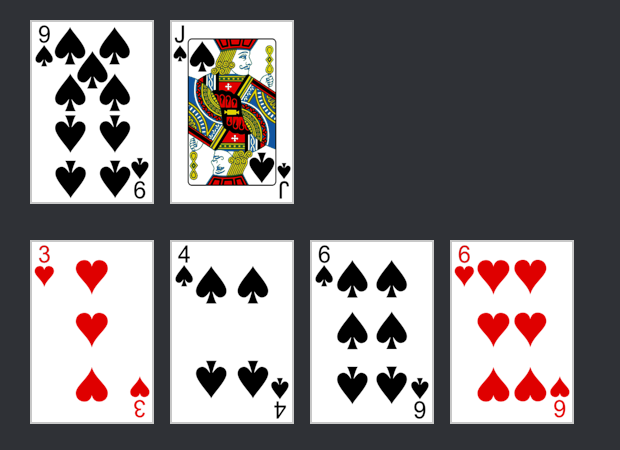
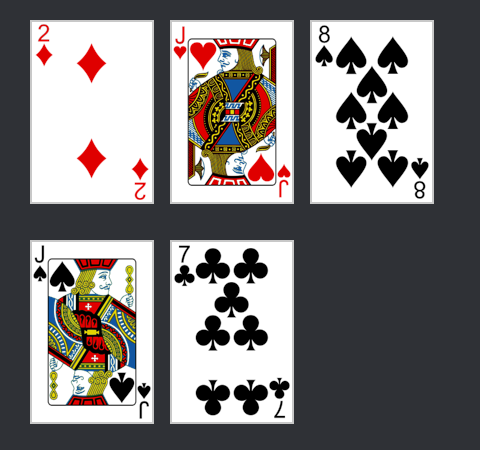
fixed music

diff --git a/main.py b/main.py
@@ -1,32 +1,32 @@
+
 import asyncio
 import itertools
 import json
 import logging
 import os
-import threading  # ✅ NEW
+import threading
 
 import discord
 from discord.ext import commands, tasks
 from dotenv import load_dotenv
 
 from cogs.music import MusicControls
-from web import run_web  # ✅ NEW
+from web import run_web
 
 logging.getLogger("discord").setLevel(logging.CRITICAL)
-logging.getLogger("discord.client").setLevel(logging.CRITICAL)
 logging.basicConfig(level=logging.INFO)
 
 load_dotenv()
 TOKEN = os.getenv("DISCORD_TOKEN")
 
 if not TOKEN:
-   raise ValueError("DISCORD_TOKEN not found")
+    raise ValueError("DISCORD_TOKEN not found")
 
 
-def ensure_file(file_path: str) -> None:
-   if not os.path.exists(file_path):
-       with open(file_path, "w", encoding="utf-8") as f:
-           json.dump({}, f)
+def ensure_file(file_path: str):
+    if not os.path.exists(file_path):
+        with open(file_path, "w", encoding="utf-8") as f:
+            json.dump({}, f)
 
 
 ensure_file("data.json")
@@ -41,78 +41,66 @@ bot = commands.Bot(command_prefix="!", intents=intents)
 bot.remove_command("help")
 
 statuses = itertools.cycle([
-   discord.Activity(type=discord.ActivityType.listening, name="!help | !blackjack"),
+    discord.Activity(type=discord.ActivityType.listening, name="!help | !blackjack"),
 ])
 
 
 @tasks.loop(seconds=10)
 async def change_status():
-   await bot.change_presence(activity=next(statuses))
+    await bot.change_presence(activity=next(statuses))
 
 
 async def load_cogs():
-   if not os.path.isdir("./cogs"):
-       print("No cogs folder found.")
-       return
-
-   for filename in os.listdir("./cogs"):
-       if not filename.endswith(".py") or filename.startswith("_"):
-           continue
-
-       extension = f"cogs.{filename[:-3]}"
-       try:
-           await bot.load_extension(extension)
-           print(f"Loaded {extension}")
-       except Exception as e:
-           print(f"Failed to load {extension}: {e}")
+    for filename in os.listdir("./cogs"):
+        if filename.endswith(".py") and not filename.startswith("_"):
+            extension = f"cogs.{filename[:-3]}"
+            try:
+                await bot.load_extension(extension)
+                print(f"✅ Loaded {extension}")
+            except Exception as e:
+                print(f"❌ Failed {extension}: {e}")
 
 
+# ✅ SINGLE on_ready (MERGED)
 @bot.event
 async def on_ready():
-   print(f"Logged in as {bot.user}")
+    print(f"✅ Logged in as {bot.user}")
 
-   print("MUSIC COMMANDS:")
-   for command in bot.commands:
-       if command.callback.__module__ == "cogs.music":
-           print(f"{command.name} -> {command.callback.__module__}")
+    # Add persistent views (IMPORTANT for buttons)
+    bot.add_view(MusicControls(bot.get_cog("Music")))
 
-   # ✅ START DASHBOARD HERE
-   if not hasattr(bot, "web_started"):
-       threading.Thread(target=run_web, args=(bot,), daemon=True).start()
-       bot.web_started = True
-       print("🌐 Dashboard running on http://localhost:5000")
+    # Start dashboard
+    if not hasattr(bot, "web_started"):
+        threading.Thread(target=run_web, args=(bot,), daemon=True).start()
+        bot.web_started = True
+        print("🌐 Dashboard running")
 
-   if not change_status.is_running():
-       change_status.start()
+    # Start status loop
+    if not change_status.is_running():
+        change_status.start()
 
-   if not hasattr(bot, "synced"):
-       try:
-           synced = await bot.tree.sync()
-           print(f"Synced {len(synced)} commands")
-           bot.synced = True
-       except Exception as e:
-           print(f"Sync error: {e}")
+    # Sync slash commands
+    if not hasattr(bot, "synced"):
+        try:
+            synced = await bot.tree.sync()
+            print(f"🔁 Synced {len(synced)} commands")
+            bot.synced = True
+        except Exception as e:
+            print(f"❌ Sync error: {e}")
 
 
-           
+# ✅ ERROR DEBUG (VERY IMPORTANT)
 @bot.event
-async def on_ready():
-    bot.add_view(MusicControls(bot.get.cog("Music")))  # ✅ NEW
-    print(f"Logged in as {bot.user}")
+async def on_command_error(ctx, error):
+    print(f"ERROR: {error}")
+    await ctx.send(f"❌ {error}")
 
 
 async def main():
-   try:
-       async with bot:
-           await load_cogs()
-           await bot.start(TOKEN)
-   finally:
-       for vc in bot.voice_clients:
-           try:
-               await vc.disconnect(force=True)
-           except Exception:
-               pass
+    async with bot:
+        await load_cogs()  # loads gambling.py automatically
+        await bot.start(TOKEN)
 
 
 if __name__ == "__main__":
-   asyncio.run(main())
+    asyncio.run(main())
